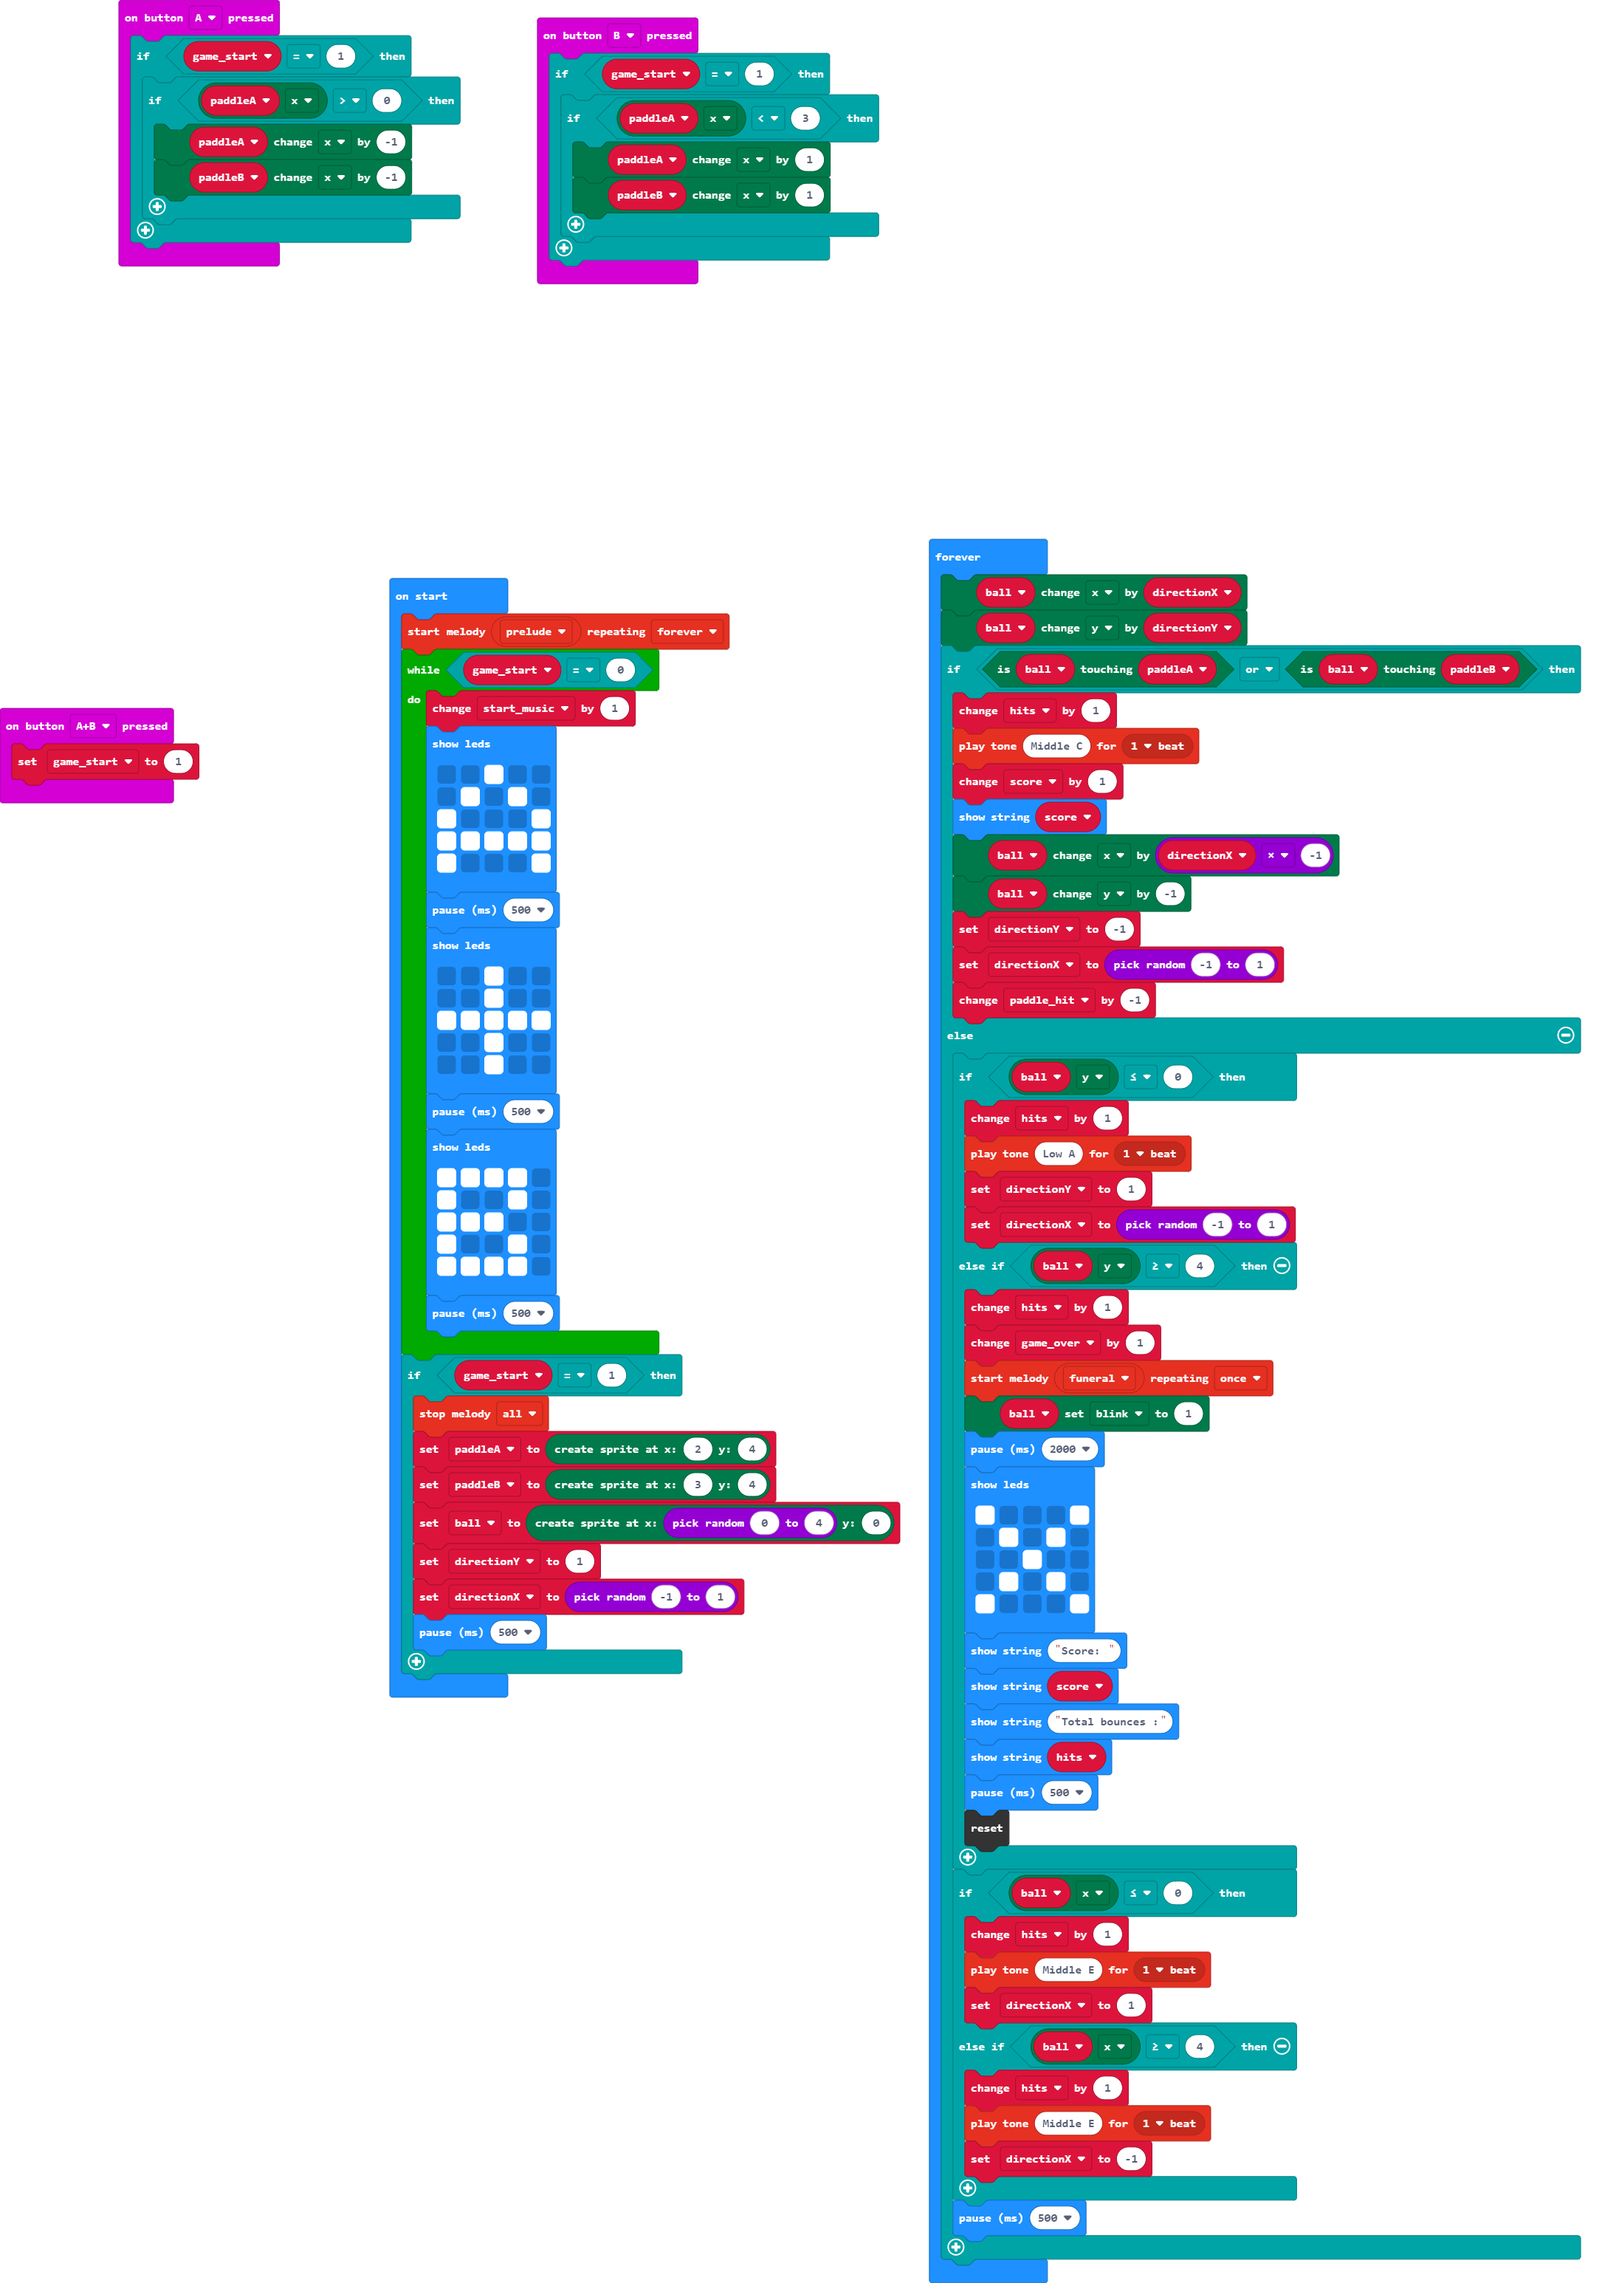
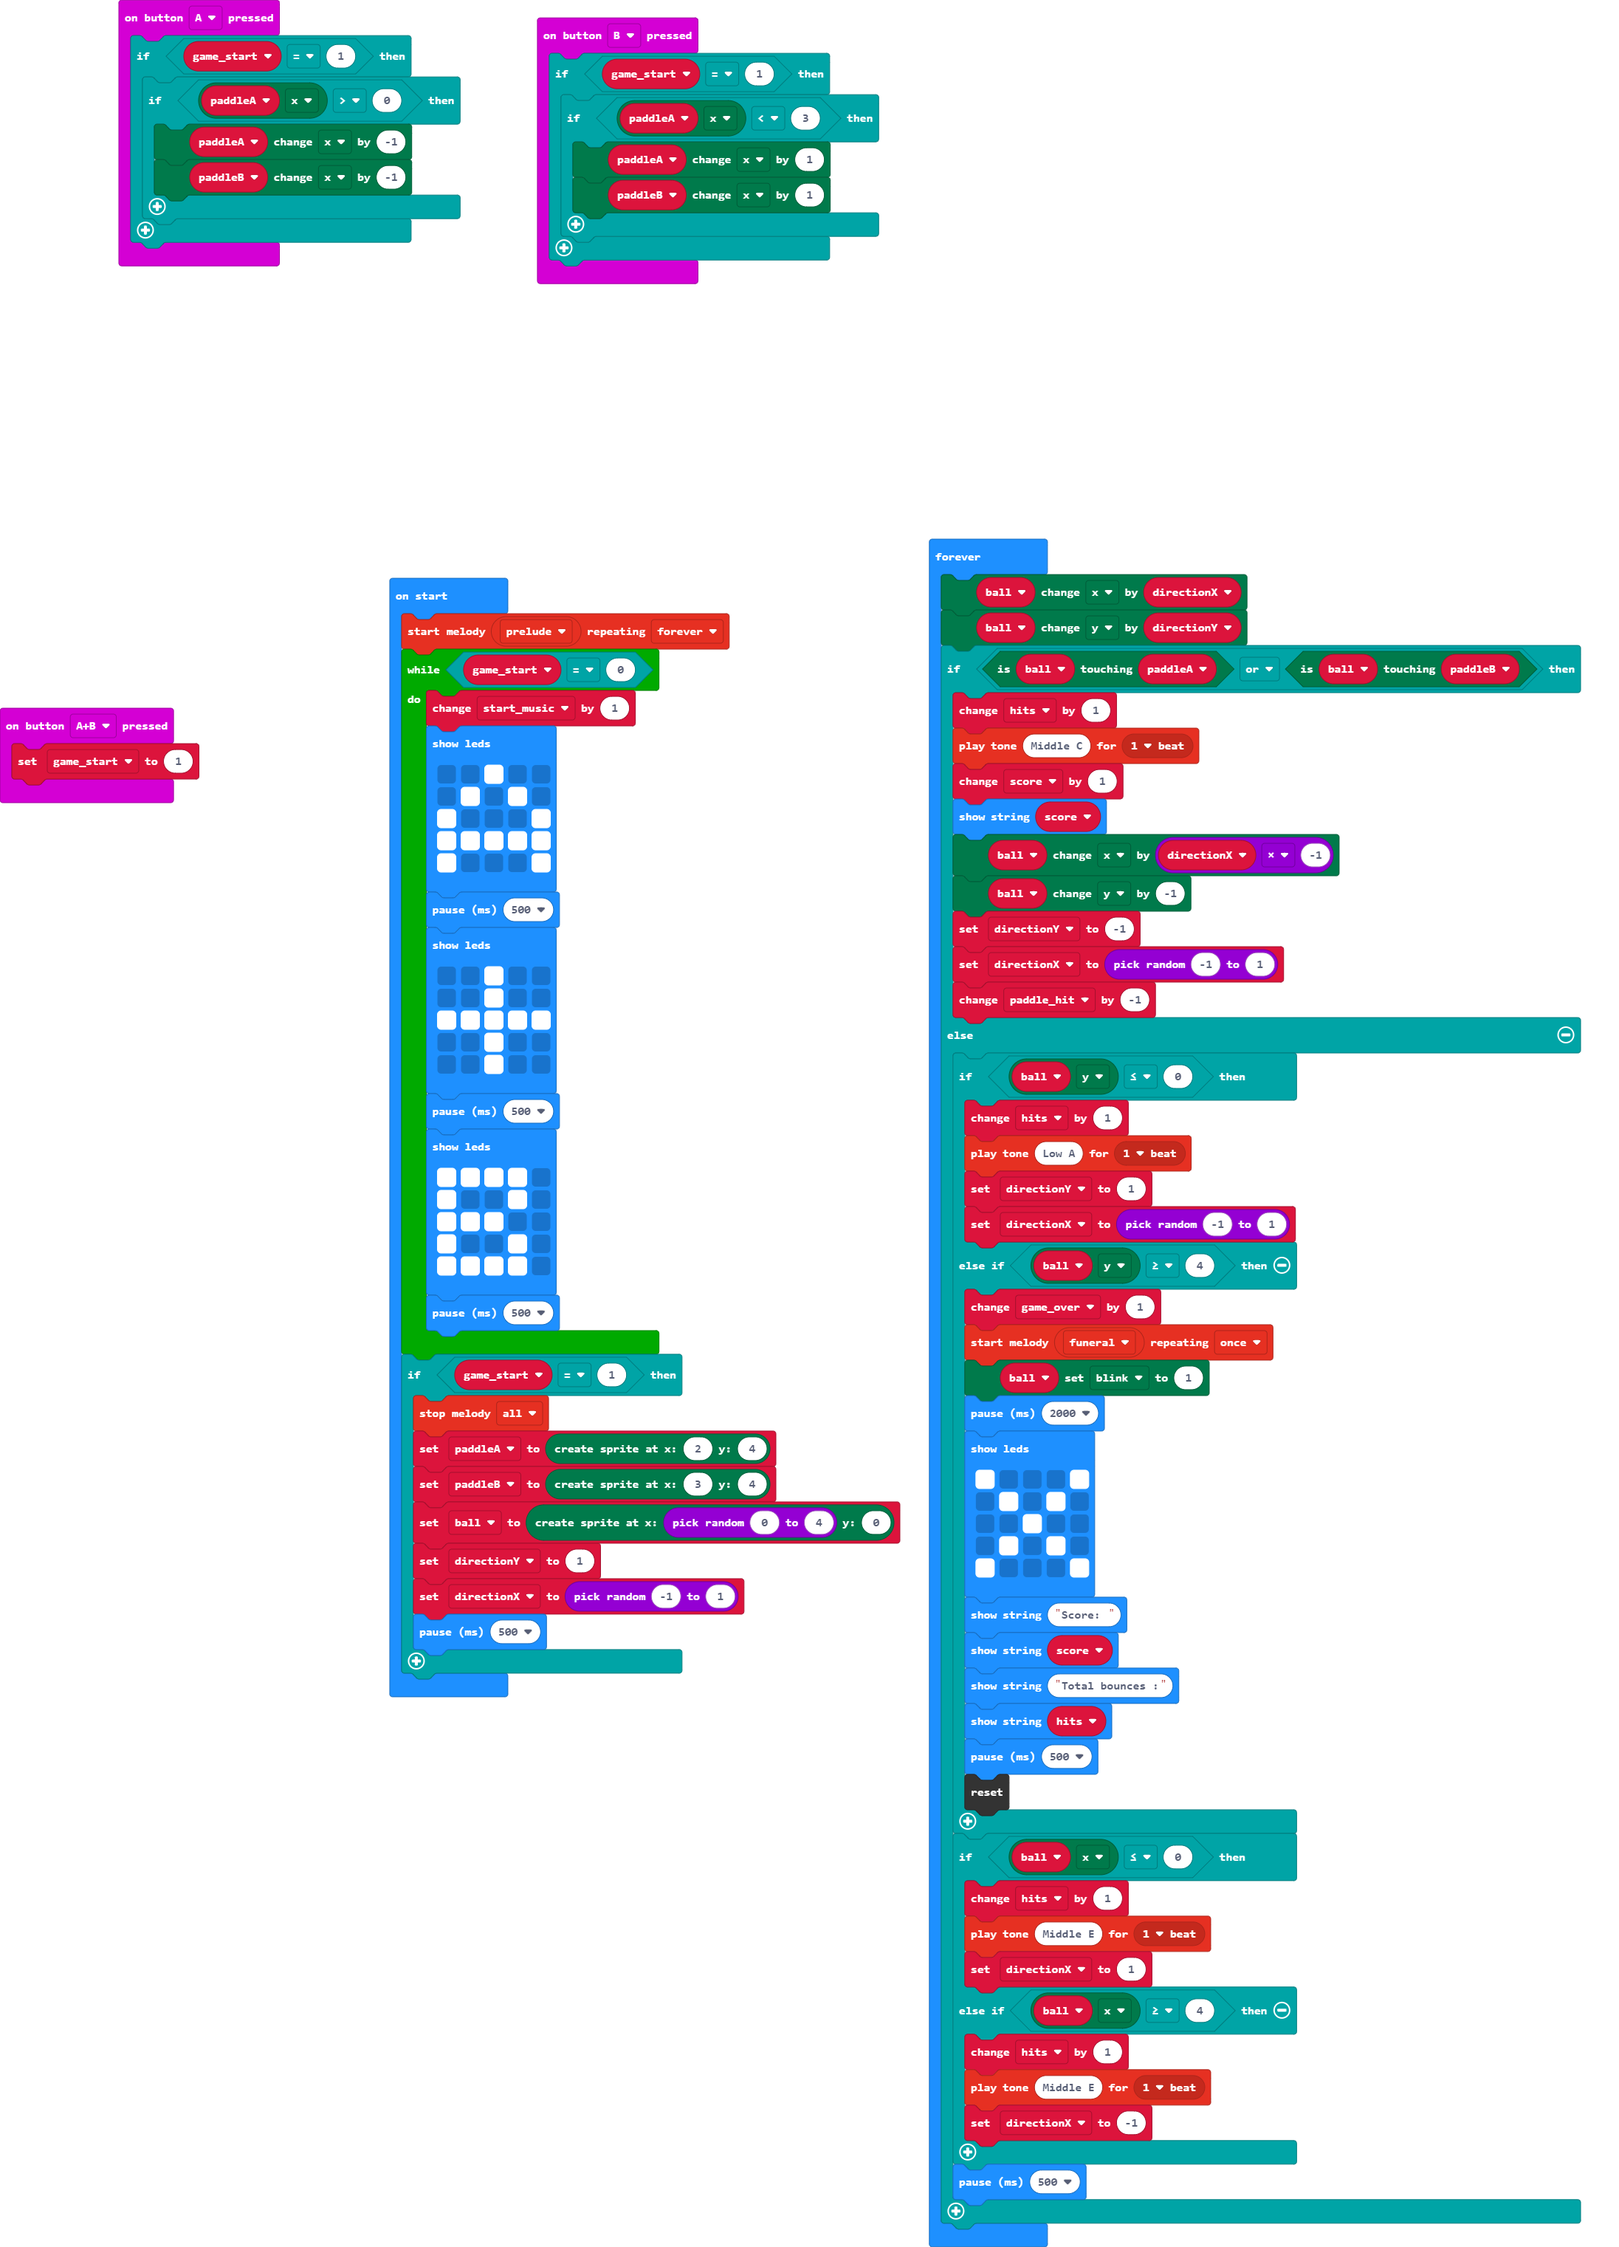
Update main.blocks, main.ts

diff --git a/main.ts b/main.ts
@@ -85,7 +85,6 @@ basic.forever(function () {
             directionY = 1
             directionX = randint(-1, 1)
         } else if (ball.get(LedSpriteProperty.Y) >= 4) {
-            hits += 1
             game_over += 1
             music.startMelody(music.builtInMelody(Melodies.Funeral), MelodyOptions.Once)
             ball.set(LedSpriteProperty.Blink, 1)
